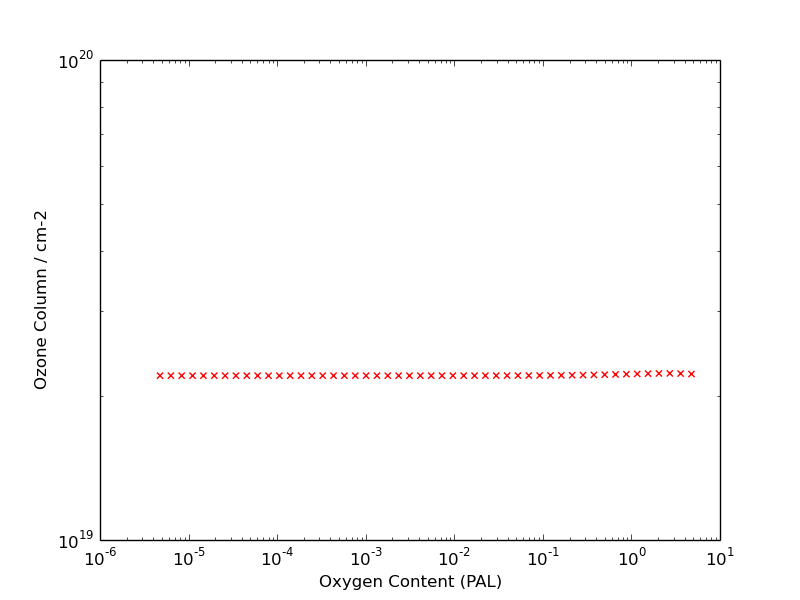
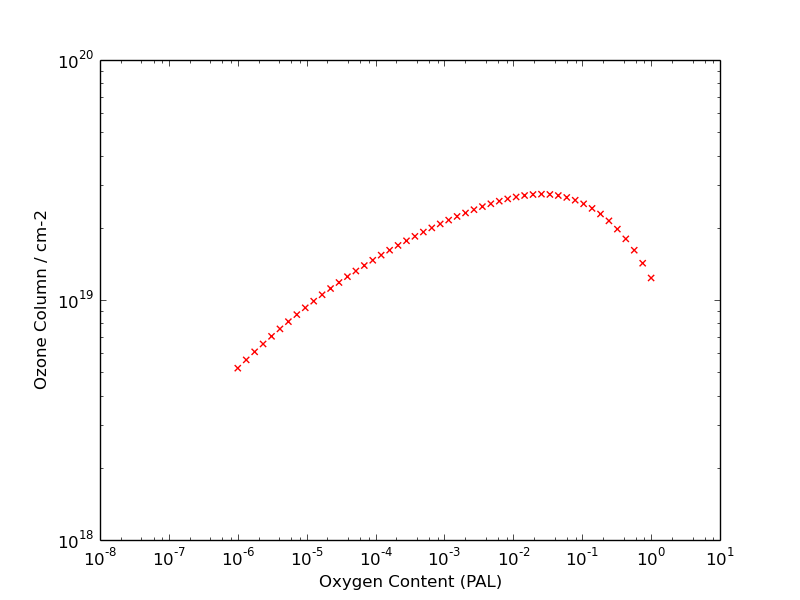
Adjusted for Plots

diff --git a/plotting.py b/plotting.py
@@ -25,13 +25,13 @@ def linoxyoz(constants):
 	        o3,o2,o,J_o2,J_o3,o3_running=steady(constants,False)
 	        du=o3_running
 	        du=o3_running/2.69E16
-	        ratio=constants['ratio']/0.21
-	        plt.scatter(ratio,du,marker="x",color='purple')
-	x,y=(1,1),(0,1000)
+	        rat=100*constants['ratio']
+	        plt.scatter(rat,du,marker=".",color='navy')
+	x,y=(21,21),(0,1100)
 	plt.plot(x,y,color='k')
-	ax.set_xlim([0,5])
-	ax.set_ylim([550,800])
-	plt.xlabel(r'Oxygen Content (PAL)')
+	ax.set_xlim([0,80])
+	ax.set_ylim([550,1100])
+	plt.xlabel(r'Oxygen Content / %')
 	plt.ylabel(r'Ozone Column / DU')
 	plt.savefig('dobson.png')
 	plt.close()
@@ -45,7 +45,7 @@ def logoxyoz(constants):
 	        o3,o2,o,J_o2,J_o3,o3_running=steady(constants,False)
 	        du=o3_running
 	#       du=o3_running/2.69E16
-	        ratio=constants['ratio']/0.21
+	        ratio=constants['ratio']
 	        plt.scatter(ratio,du,marker="x",color='r')
 	ax.set_xscale('log')
 	#ax.set_xlim([0,1])

diff --git a/oxygen.py b/oxygen.py
@@ -19,6 +19,7 @@ print "STARTING PROGRAM OXYGEN"
 
 # Oxygen ratio
 ratio = 0.21
+print ratio
 # Steady state mode - can set up 'initial values' for chem scheme
 steadystate = True
 # Plotting scripts - plots oxygen vs ozone for a range of oxygen vals
@@ -66,6 +67,8 @@ def main():
 	if steadystate==True:
 		print "CALCULATING STEADY STATE OZONE COLUMN (CHAPMAN)"
 		o3,o2,o,J_o2,J_o3,o3_running=steady(constants,True)
+		print "J(O2)="+str(J_o2[40])
+		print "J(O3)="+str(J_o3[40])
 		altconc(constants,o3,o3_running)
 
 	#Interactive plot of ozone vs o2

diff --git a/steady_state.py b/steady_state.py
@@ -21,7 +21,7 @@ def steady(constants,init):
 	o2_running=0
 	o3_running=0
 	for i in range(constants['nlevs']):
-        	o2[i]=constants['ratio_copy']*constants['M'][i]
+        	o2[i]=constants['ratio']*constants['M'][i]
 	        optical_depth=constants['o2_c']*o2_running+constants['o3_c']*o3_running
 	        I_factor=np.exp(-optical_depth)
         	I=np.array(constants['sol']*I_factor)
